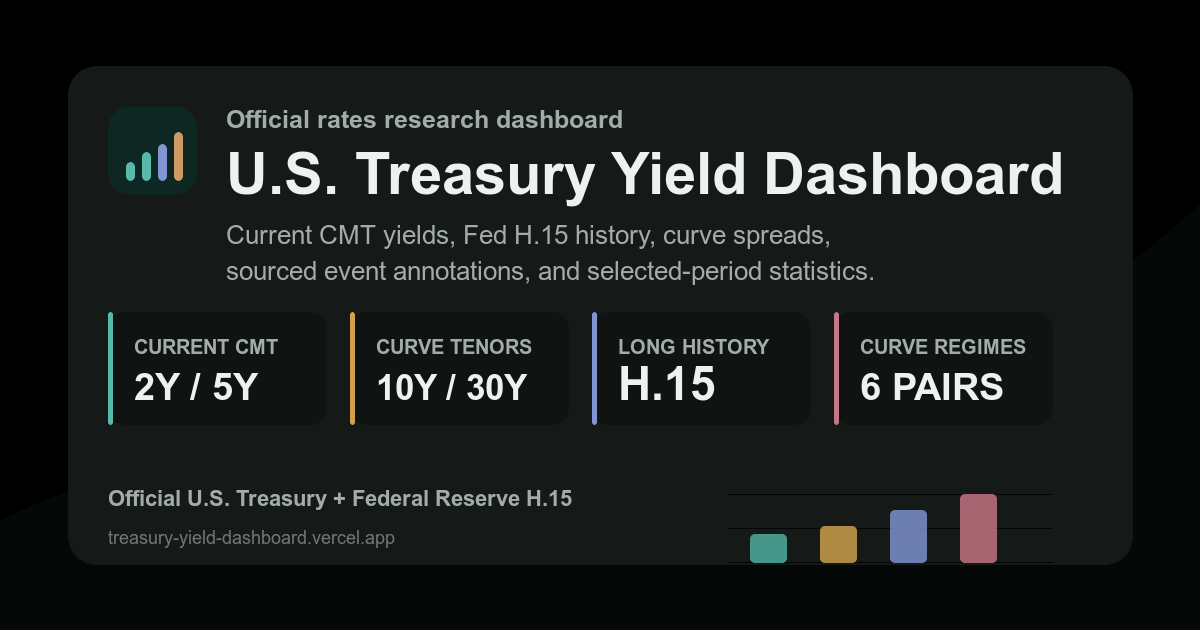
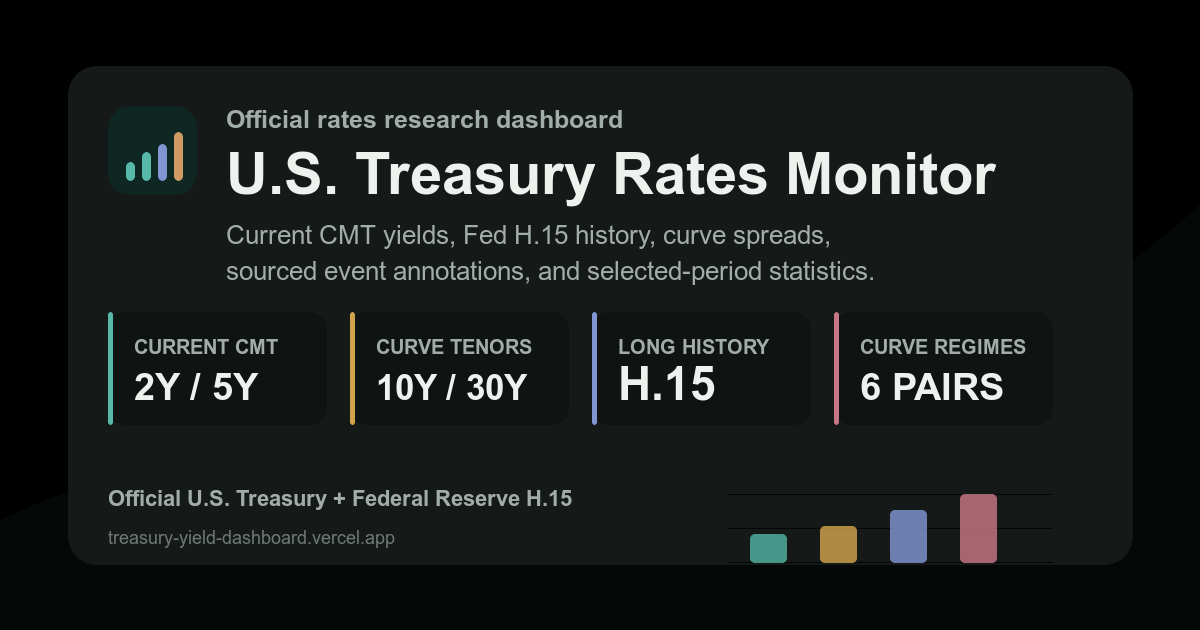
Rename product to Treasury Rates Monitor

Changed region(s): [[0.4933, 0.2413, 0.8942, 0.3317]]

diff --git a/index.html b/index.html
@@ -13,8 +13,8 @@
     <link rel="apple-touch-icon" sizes="180x180" href="/apple-touch-icon.png" />
     <link rel="manifest" href="/site.webmanifest" />
     <meta property="og:type" content="website" />
-    <meta property="og:site_name" content="U.S. Treasury Yield Dashboard" />
-    <meta property="og:title" content="U.S. Treasury Yield Dashboard" />
+    <meta property="og:site_name" content="U.S. Treasury Rates Monitor" />
+    <meta property="og:title" content="U.S. Treasury Rates Monitor" />
     <meta
       property="og:description"
       content="U.S. Treasury research dashboard with official CMT rates, Fed H.15 history, curve spreads, and sourced macro event annotations."
@@ -25,16 +25,16 @@
     <meta property="og:image:type" content="image/png" />
     <meta property="og:image:width" content="1200" />
     <meta property="og:image:height" content="630" />
-    <meta property="og:image:alt" content="U.S. Treasury Yield Dashboard preview with current Treasury yields and analytics bars" />
+    <meta property="og:image:alt" content="U.S. Treasury Rates Monitor preview with current Treasury yields and analytics bars" />
     <meta name="twitter:card" content="summary_large_image" />
-    <meta name="twitter:title" content="U.S. Treasury Yield Dashboard" />
+    <meta name="twitter:title" content="U.S. Treasury Rates Monitor" />
     <meta
       name="twitter:description"
       content="Current Treasury yields, long-run H.15 history, spreads, macro events, and selected-period statistics."
     />
     <meta name="twitter:image" content="https://treasury-yield-dashboard.vercel.app/og-image.png" />
-    <meta name="twitter:image:alt" content="U.S. Treasury Yield Dashboard preview with current Treasury yields and analytics bars" />
-    <title>U.S. Treasury Yield Dashboard</title>
+    <meta name="twitter:image:alt" content="U.S. Treasury Rates Monitor preview with current Treasury yields and analytics bars" />
+    <title>U.S. Treasury Rates Monitor</title>
   </head>
   <body>
     <div id="root"></div>

diff --git a/server/index.js b/server/index.js
@@ -194,10 +194,10 @@ app.use((_request, response) => {
 const server = app.listen(PORT);
 
 server.on("listening", () => {
-  console.log(`Treasury Yield Dashboard listening on http://localhost:${PORT}`);
+  console.log(`U.S. Treasury Rates Monitor listening on http://localhost:${PORT}`);
 });
 
 server.on("error", (error) => {
-  console.error(`Treasury Yield Dashboard could not bind to port ${PORT}: ${error.message}`);
+  console.error(`U.S. Treasury Rates Monitor could not bind to port ${PORT}: ${error.message}`);
   process.exitCode = 1;
 });

diff --git a/src/components/ResearchWorkbench.tsx b/src/components/ResearchWorkbench.tsx
@@ -320,8 +320,8 @@ export function ResearchWorkbench({ currentData, currentLoading, currentError }:
     window.history.replaceState(window.history.state, "", nextUrl);
     const activeLabel = workspaceTabs.find((tab) => tab.id === activeTab)?.label;
     document.title = activeTab === "snapshot"
-      ? "U.S. Treasury Yield Dashboard"
-      : `${activeLabel} · U.S. Treasury Yield Dashboard`;
+      ? "U.S. Treasury Rates Monitor"
+      : `${activeLabel} · U.S. Treasury Rates Monitor`;
   }, [activeTab, comparisonAsOf, comparisonReference, historyView, preset, range.end, range.start, regimeHorizon, selectedPairKey, selectedSpread]);
 
   useEffect(() => {

diff --git a/public/404.html b/public/404.html
@@ -4,7 +4,7 @@
     <meta charset="UTF-8" />
     <meta name="viewport" content="width=device-width, initial-scale=1.0" />
     <meta name="robots" content="noindex" />
-    <title>Page Not Found | U.S. Treasury Yield Dashboard</title>
+    <title>Page Not Found | U.S. Treasury Rates Monitor</title>
     <style>
       :root {
         color: #1d252c;

diff --git a/src/App.tsx b/src/App.tsx
@@ -25,7 +25,7 @@ function App() {
               <i aria-hidden="true" />
               <span>Treasury Research</span>
             </div>
-            <h1>U.S. Treasury Curve Monitor</h1>
+            <h1>U.S. Treasury Rates Monitor</h1>
             <p className="topbar__subtitle">
               Official CMT rates, curve structure, and historical regimes.
             </p>

diff --git a/README.md b/README.md
@@ -1,4 +1,4 @@
-# U.S. Treasury Yield Dashboard
+# U.S. Treasury Rates Monitor
 
 A clean institutional-style dashboard for U.S. Treasury Constant Maturity rates and delayed Treasury-futures monitoring. It displays current 2Y, 5Y, 10Y, and 30Y CMT yields, daily moves in basis points and percent, a separate intraday futures tape, six core curve spreads, date-to-date curve comparison, long-run macro research, and light/dark themes.
 